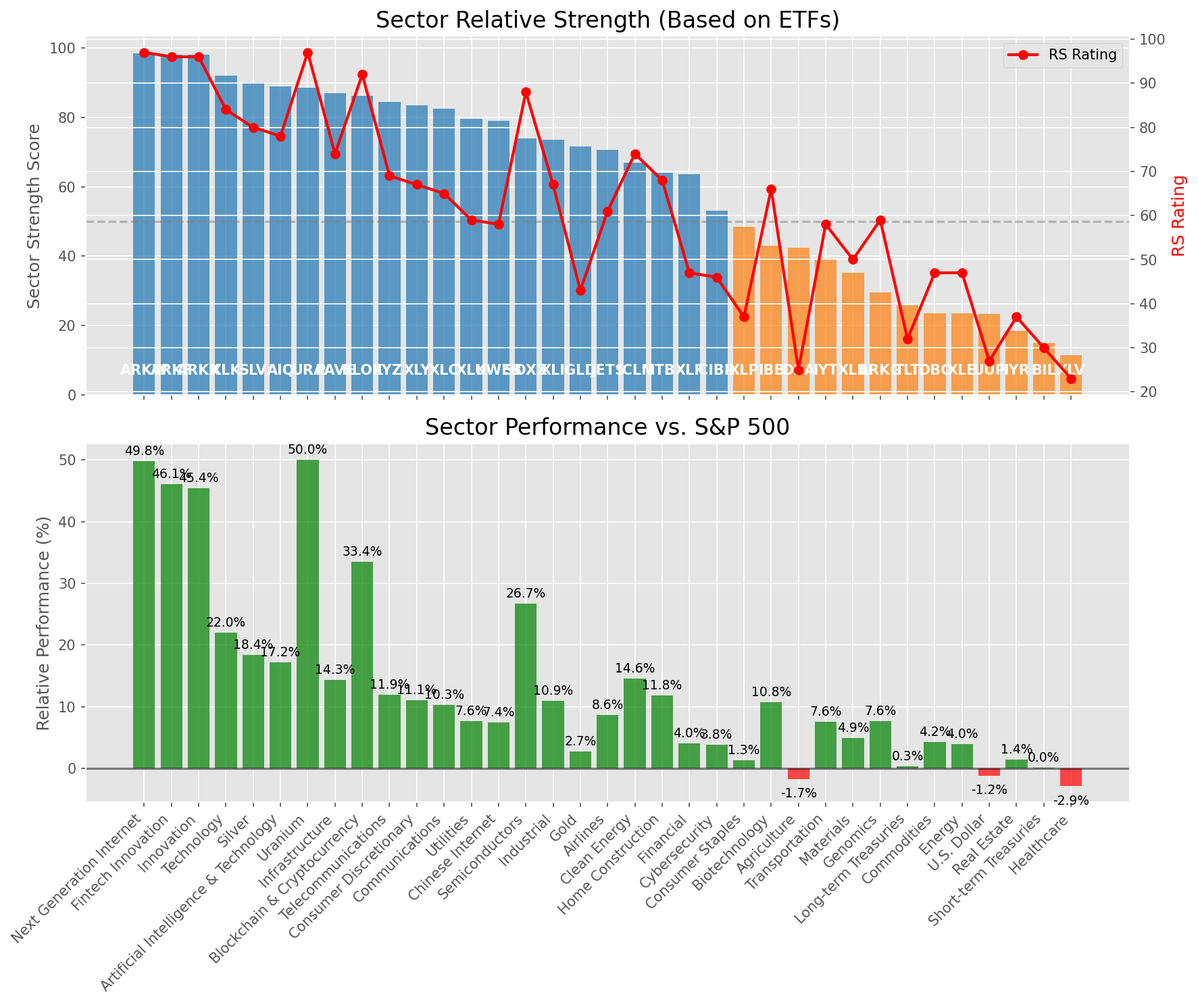
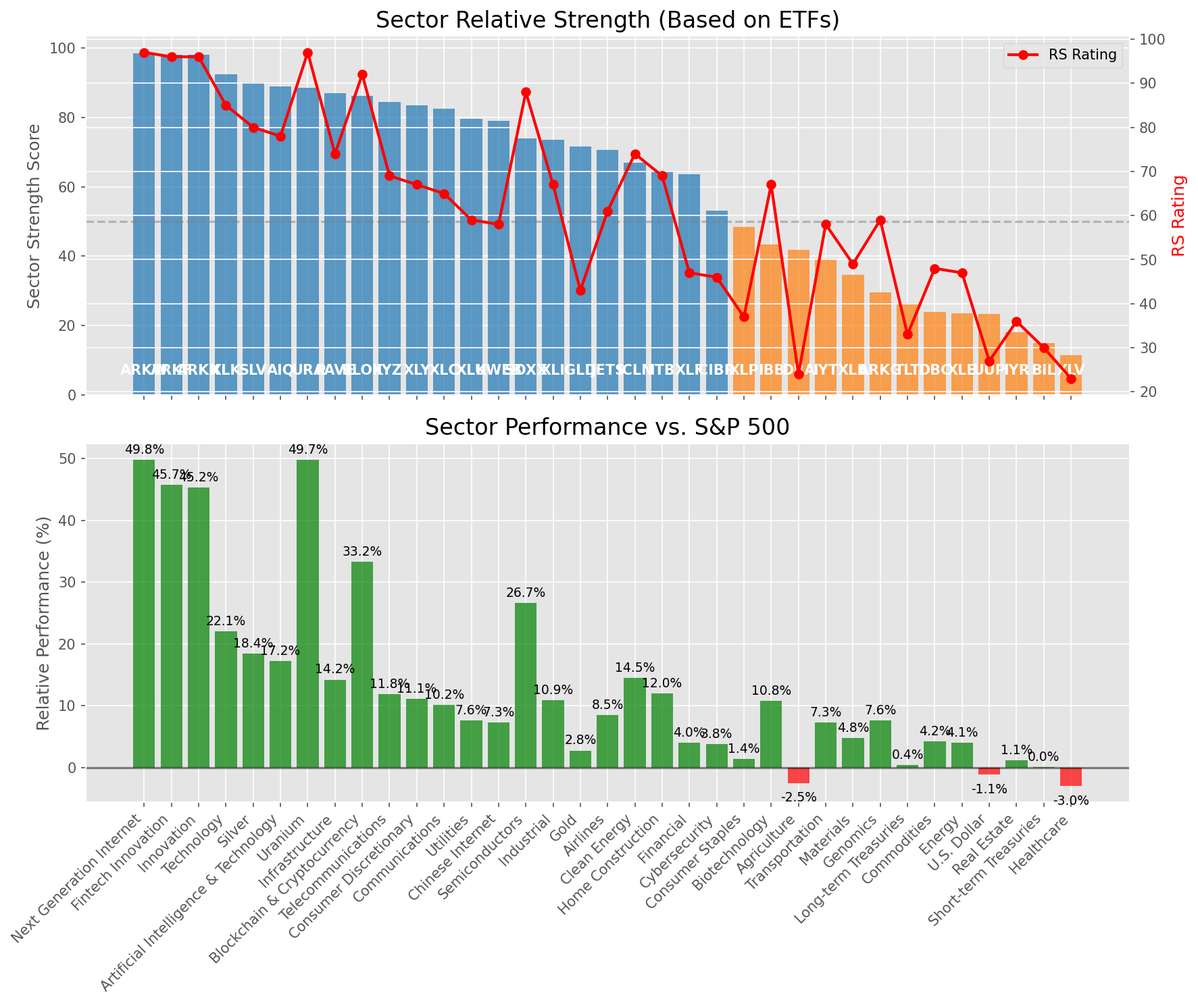
Add market report for 2025-08-08

diff --git a/oneil_relative_strength_report_2025-08-08.md b/oneil_relative_strength_report_2025-08-08.md
@@ -9,11 +9,11 @@
 | Metric | Value |
 |--------|-------|
 | **Market Valuation** | **Overvalued** |
-| **Current Ratio** | 10.33 |
+| **Current Ratio** | 10.32 |
 | **Historical Mean** | 9.66 |
 | **Standard Deviation** | 0.52 |
 | **Z-Score (StdDev from Mean)** | 1.14 |
-| **Total Market Cap** | $313.17 trillion |
+| **Total Market Cap** | $313.03 trillion |
 | **GDP** | $30.33 trillion |
 
 ## **Market Insights**
@@ -49,41 +49,41 @@ Based on William O'Neil's Relative Strength Methodology
 
 | ETF | Strength | RS Rating | Performance | Above Key MAs | Trend | Sector |
 |-----|----------|-----------|-------------|--------------|-------|--------|
-| [ARKW](https://www.tradingview.com/chart/?symbol=ARKW) | 98.5 | 97.0 | 49.83% | 10d ✓, 50d ✓, 200d ✓ | ↗ | Next Generation Internet |
-| [ARKF](https://www.tradingview.com/chart/?symbol=ARKF) | 98.0 | 96.0 | 46.05% | 10d ✓, 50d ✓, 200d ✓ | ↗ | Fintech Innovation |
-| [ARKK](https://www.tradingview.com/chart/?symbol=ARKK) | 98.0 | 96.0 | 45.41% | 10d ✓, 50d ✓, 200d ✓ | ↗ | Innovation |
-| [XLK](https://www.tradingview.com/chart/?symbol=XLK) | 92.0 | 84.0 | 22.02% | 10d ✓, 50d ✓, 200d ✓ | ↗ | Technology |
+| [ARKW](https://www.tradingview.com/chart/?symbol=ARKW) | 98.5 | 97.0 | 49.80% | 10d ✓, 50d ✓, 200d ✓ | ↗ | Next Generation Internet |
+| [ARKF](https://www.tradingview.com/chart/?symbol=ARKF) | 98.0 | 96.0 | 45.73% | 10d ✓, 50d ✓, 200d ✓ | ↗ | Fintech Innovation |
+| [ARKK](https://www.tradingview.com/chart/?symbol=ARKK) | 98.0 | 96.0 | 45.25% | 10d ✓, 50d ✓, 200d ✓ | ↗ | Innovation |
+| [XLK](https://www.tradingview.com/chart/?symbol=XLK) | 92.5 | 85.0 | 22.05% | 10d ✓, 50d ✓, 200d ✓ | ↗ | Technology |
 | [SLV](https://www.tradingview.com/chart/?symbol=SLV) | 90.0 | 80.0 | 18.40% | 10d ✓, 50d ✓, 200d ✓ | ↗ | Silver |
-| [AIQ](https://www.tradingview.com/chart/?symbol=AIQ) | 89.0 | 78.0 | 17.20% | 10d ✓, 50d ✓, 200d ✓ | ↗ | Artificial Intelligence & Technology |
-| [URA](https://www.tradingview.com/chart/?symbol=URA) | 88.6 | 97.0 | 50.04% | 10d ✗, 50d ✓, 200d ✓ | ↗ | Uranium |
-| [PAVE](https://www.tradingview.com/chart/?symbol=PAVE) | 87.0 | 74.0 | 14.32% | 10d ✓, 50d ✓, 200d ✓ | ↗ | Infrastructure |
-| [BLOK](https://www.tradingview.com/chart/?symbol=BLOK) | 86.1 | 92.0 | 33.44% | 10d ✗, 50d ✓, 200d ✓ | ↗ | Blockchain & Cryptocurrency |
-| [IYZ](https://www.tradingview.com/chart/?symbol=IYZ) | 84.5 | 69.0 | 11.90% | 10d ✓, 50d ✓, 200d ✓ | ↗ | Telecommunications |
-| [XLY](https://www.tradingview.com/chart/?symbol=XLY) | 83.5 | 67.0 | 11.08% | 10d ✓, 50d ✓, 200d ✓ | ↗ | Consumer Discretionary |
-| [XLC](https://www.tradingview.com/chart/?symbol=XLC) | 82.5 | 65.0 | 10.28% | 10d ✓, 50d ✓, 200d ✓ | ↗ | Communications |
-| [XLU](https://www.tradingview.com/chart/?symbol=XLU) | 79.5 | 59.0 | 7.65% | 10d ✓, 50d ✓, 200d ✓ | ↗ | Utilities |
-| [KWEB](https://www.tradingview.com/chart/?symbol=KWEB) | 79.0 | 58.0 | 7.40% | 10d ✓, 50d ✓, 200d ✓ | ↗ | Chinese Internet |
+| [AIQ](https://www.tradingview.com/chart/?symbol=AIQ) | 89.0 | 78.0 | 17.23% | 10d ✓, 50d ✓, 200d ✓ | ↗ | Artificial Intelligence & Technology |
+| [URA](https://www.tradingview.com/chart/?symbol=URA) | 88.6 | 97.0 | 49.74% | 10d ✗, 50d ✓, 200d ✓ | ↗ | Uranium |
+| [PAVE](https://www.tradingview.com/chart/?symbol=PAVE) | 87.0 | 74.0 | 14.23% | 10d ✓, 50d ✓, 200d ✓ | ↗ | Infrastructure |
+| [BLOK](https://www.tradingview.com/chart/?symbol=BLOK) | 86.1 | 92.0 | 33.24% | 10d ✗, 50d ✓, 200d ✓ | ↗ | Blockchain & Cryptocurrency |
+| [IYZ](https://www.tradingview.com/chart/?symbol=IYZ) | 84.5 | 69.0 | 11.84% | 10d ✓, 50d ✓, 200d ✓ | ↗ | Telecommunications |
+| [XLY](https://www.tradingview.com/chart/?symbol=XLY) | 83.5 | 67.0 | 11.09% | 10d ✓, 50d ✓, 200d ✓ | ↗ | Consumer Discretionary |
+| [XLC](https://www.tradingview.com/chart/?symbol=XLC) | 82.5 | 65.0 | 10.19% | 10d ✓, 50d ✓, 200d ✓ | ↗ | Communications |
+| [XLU](https://www.tradingview.com/chart/?symbol=XLU) | 79.5 | 59.0 | 7.59% | 10d ✓, 50d ✓, 200d ✓ | ↗ | Utilities |
+| [KWEB](https://www.tradingview.com/chart/?symbol=KWEB) | 79.0 | 58.0 | 7.34% | 10d ✓, 50d ✓, 200d ✓ | ↗ | Chinese Internet |
 | [SOXX](https://www.tradingview.com/chart/?symbol=SOXX) | 74.0 | 88.0 | 26.67% | 10d ✓, 50d ✓, 200d ✓ | ↘ | Semiconductors |
-| [XLI](https://www.tradingview.com/chart/?symbol=XLI) | 73.6 | 67.0 | 10.94% | 10d ✗, 50d ✓, 200d ✓ | ↗ | Industrial |
-| [GLD](https://www.tradingview.com/chart/?symbol=GLD) | 71.5 | 43.0 | 2.75% | 10d ✓, 50d ✓, 200d ✓ | ↗ | Gold |
-| [JETS](https://www.tradingview.com/chart/?symbol=JETS) | 70.6 | 61.0 | 8.59% | 10d ✗, 50d ✓, 200d ✓ | ↗ | Airlines |
-| [ICLN](https://www.tradingview.com/chart/?symbol=ICLN) | 67.0 | 74.0 | 14.55% | 10d ✓, 50d ✓, 200d ✓ | ↘ | Clean Energy |
-| [ITB](https://www.tradingview.com/chart/?symbol=ITB) | 64.0 | 68.0 | 11.83% | 10d ✓, 50d ✓, 200d ✓ | ↘ | Home Construction |
-| [XLF](https://www.tradingview.com/chart/?symbol=XLF) | 63.6 | 47.0 | 4.03% | 10d ✗, 50d ✓, 200d ✓ | ↗ | Financial |
-| [CIBR](https://www.tradingview.com/chart/?symbol=CIBR) | 53.2 | 46.0 | 3.83% | 10d ✗, 50d ✗, 200d ✓ | ↗ | Cybersecurity |
-| [XLP](https://www.tradingview.com/chart/?symbol=XLP) | 48.5 | 37.0 | 1.29% | 10d ✓, 50d ✓, 200d ✓ | ↘ | Consumer Staples |
-| [IBB](https://www.tradingview.com/chart/?symbol=IBB) | 42.9 | 66.0 | 10.77% | 10d ✗, 50d ✓, 200d ✗ | ↘ | Biotechnology |
-| [DBA](https://www.tradingview.com/chart/?symbol=DBA) | 42.4 | 25.0 | -1.72% | 10d ✓, 50d ✗, 200d ✗ | ↗ | Agriculture |
-| [IYT](https://www.tradingview.com/chart/?symbol=IYT) | 39.2 | 58.0 | 7.55% | 10d ✗, 50d ✗, 200d ✓ | ↘ | Transportation |
-| [XLB](https://www.tradingview.com/chart/?symbol=XLB) | 35.2 | 50.0 | 4.90% | 10d ✗, 50d ✗, 200d ✓ | ↘ | Materials |
-| [ARKG](https://www.tradingview.com/chart/?symbol=ARKG) | 29.5 | 59.0 | 7.64% | 10d ✗, 50d ✗, 200d ✗ | ↘ | Genomics |
-| [TLT](https://www.tradingview.com/chart/?symbol=TLT) | 25.9 | 32.0 | 0.34% | 10d ✗, 50d ✓, 200d ✗ | ↘ | Long-term Treasuries |
-| [DBC](https://www.tradingview.com/chart/?symbol=DBC) | 23.5 | 47.0 | 4.25% | 10d ✗, 50d ✗, 200d ✗ | ↘ | Commodities |
-| [XLE](https://www.tradingview.com/chart/?symbol=XLE) | 23.5 | 47.0 | 3.96% | 10d ✗, 50d ✗, 200d ✗ | ↘ | Energy |
-| [UUP](https://www.tradingview.com/chart/?symbol=UUP) | 23.4 | 27.0 | -1.19% | 10d ✗, 50d ✓, 200d ✗ | ↘ | U.S. Dollar |
-| [IYR](https://www.tradingview.com/chart/?symbol=IYR) | 18.5 | 37.0 | 1.41% | 10d ✗, 50d ✗, 200d ✗ | ↘ | Real Estate |
-| [BIL](https://www.tradingview.com/chart/?symbol=BIL) | 15.0 | 30.0 | 0.05% | 10d ✗, 50d ✗, 200d ✗ | ↘ | Short-term Treasuries |
-| [XLV](https://www.tradingview.com/chart/?symbol=XLV) | 11.5 | 23.0 | -2.86% | 10d ✗, 50d ✗, 200d ✗ | ↘ | Healthcare |
+| [XLI](https://www.tradingview.com/chart/?symbol=XLI) | 73.6 | 67.0 | 10.90% | 10d ✗, 50d ✓, 200d ✓ | ↗ | Industrial |
+| [GLD](https://www.tradingview.com/chart/?symbol=GLD) | 71.5 | 43.0 | 2.76% | 10d ✓, 50d ✓, 200d ✓ | ↗ | Gold |
+| [JETS](https://www.tradingview.com/chart/?symbol=JETS) | 70.6 | 61.0 | 8.52% | 10d ✗, 50d ✓, 200d ✓ | ↗ | Airlines |
+| [ICLN](https://www.tradingview.com/chart/?symbol=ICLN) | 67.0 | 74.0 | 14.46% | 10d ✓, 50d ✓, 200d ✓ | ↘ | Clean Energy |
+| [ITB](https://www.tradingview.com/chart/?symbol=ITB) | 64.5 | 69.0 | 12.01% | 10d ✓, 50d ✓, 200d ✓ | ↘ | Home Construction |
+| [XLF](https://www.tradingview.com/chart/?symbol=XLF) | 63.6 | 47.0 | 3.99% | 10d ✗, 50d ✓, 200d ✓ | ↗ | Financial |
+| [CIBR](https://www.tradingview.com/chart/?symbol=CIBR) | 53.2 | 46.0 | 3.81% | 10d ✗, 50d ✗, 200d ✓ | ↗ | Cybersecurity |
+| [XLP](https://www.tradingview.com/chart/?symbol=XLP) | 48.5 | 37.0 | 1.35% | 10d ✓, 50d ✓, 200d ✓ | ↘ | Consumer Staples |
+| [IBB](https://www.tradingview.com/chart/?symbol=IBB) | 43.4 | 67.0 | 10.79% | 10d ✗, 50d ✓, 200d ✗ | ↘ | Biotechnology |
+| [DBA](https://www.tradingview.com/chart/?symbol=DBA) | 41.9 | 24.0 | -2.49% | 10d ✓, 50d ✗, 200d ✗ | ↗ | Agriculture |
+| [IYT](https://www.tradingview.com/chart/?symbol=IYT) | 39.2 | 58.0 | 7.31% | 10d ✗, 50d ✗, 200d ✓ | ↘ | Transportation |
+| [XLB](https://www.tradingview.com/chart/?symbol=XLB) | 34.7 | 49.0 | 4.75% | 10d ✗, 50d ✗, 200d ✓ | ↘ | Materials |
+| [ARKG](https://www.tradingview.com/chart/?symbol=ARKG) | 29.5 | 59.0 | 7.59% | 10d ✗, 50d ✗, 200d ✗ | ↘ | Genomics |
+| [TLT](https://www.tradingview.com/chart/?symbol=TLT) | 26.4 | 33.0 | 0.43% | 10d ✗, 50d ✓, 200d ✗ | ↘ | Long-term Treasuries |
+| [DBC](https://www.tradingview.com/chart/?symbol=DBC) | 24.0 | 48.0 | 4.20% | 10d ✗, 50d ✗, 200d ✗ | ↘ | Commodities |
+| [XLE](https://www.tradingview.com/chart/?symbol=XLE) | 23.5 | 47.0 | 4.07% | 10d ✗, 50d ✗, 200d ✗ | ↘ | Energy |
+| [UUP](https://www.tradingview.com/chart/?symbol=UUP) | 23.4 | 27.0 | -1.12% | 10d ✗, 50d ✓, 200d ✗ | ↘ | U.S. Dollar |
+| [IYR](https://www.tradingview.com/chart/?symbol=IYR) | 18.0 | 36.0 | 1.13% | 10d ✗, 50d ✗, 200d ✗ | ↘ | Real Estate |
+| [BIL](https://www.tradingview.com/chart/?symbol=BIL) | 15.0 | 30.0 | 0.04% | 10d ✗, 50d ✗, 200d ✗ | ↘ | Short-term Treasuries |
+| [XLV](https://www.tradingview.com/chart/?symbol=XLV) | 11.5 | 23.0 | -2.97% | 10d ✗, 50d ✗, 200d ✗ | ↘ | Healthcare |
 
 ### **Sector ETF Performance Interpretation**
 
@@ -100,158 +100,147 @@ This table shows the relative strength metrics for different market sectors base
 
 The current market leadership is coming from the following sectors: **Next Generation Internet, Fintech Innovation, Innovation**.
 
-The **Next Generation Internet** sector (represented by **ARKW**) is showing particularly strong relative strength with an RS rating of 97.0 and performance of 49.83% vs. the S&P 500. This sector is trading above its 10-day, 50-day, 200-day moving average(s). Investors should consider focusing on high RS stocks within these leading sectors for potential outperformance.
+The **Next Generation Internet** sector (represented by **ARKW**) is showing particularly strong relative strength with an RS rating of 97.0 and performance of 49.80% vs. the S&P 500. This sector is trading above its 10-day, 50-day, 200-day moving average(s). Investors should consider focusing on high RS stocks within these leading sectors for potential outperformance.
 
 ---
 
 ## **Buy Recommendations**
 
-The following 74 stocks show exceptional relative strength:
+The following 69 stocks show exceptional relative strength:
 
 | RS Rating | Buy Score | Current Price | Chart | Name | Ticker |
 |-----------|-----------|---------------|-------|------|--------|
-| 100 | 100 | $115.17 | [Chart](https://www.tradingview.com/chart/?symbol=HOOD) | Robinhood Markets, Inc. Class A Common Stock | HOOD |
-| 100 | 100 | $73.76 | [Chart](https://www.tradingview.com/chart/?symbol=MP) | MP Materials Corp. | MP |
-| 100 | 100 | $225.52 | [Chart](https://www.tradingview.com/chart/?symbol=LEU) | Centrus Energy Corp. | LEU |
-| 100 | 100 | $208.51 | [Chart](https://www.tradingview.com/chart/?symbol=CLS) | Celestica, Inc. | CLS |
-| 100 | 100 | $120.88 | [Chart](https://www.tradingview.com/chart/?symbol=CRDO) | Credo Technology Group Holding Ltd Ordinary Shares | CRDO |
-| 99 | 100 | $64.86 | [Chart](https://www.tradingview.com/chart/?symbol=KTOS) | Kratos Defense & Security Solutions, Inc. | KTOS |
-| 99 | 100 | $128.88 | [Chart](https://www.tradingview.com/chart/?symbol=RBLX) | Roblox Corporation | RBLX |
-| 98 | 100 | $105.33 | [Chart](https://www.tradingview.com/chart/?symbol=VRNA) | Verona Pharma plc | VRNA |
-| 98 | 100 | $187.15 | [Chart](https://www.tradingview.com/chart/?symbol=PLTR) | Palantir Technologies Inc. Class A Common Stock | PLTR |
-| 97 | 100 | $161.21 | [Chart](https://www.tradingview.com/chart/?symbol=FUTU) | Futu Holdings Limited American Depositary Shares | FUTU |
-| 97 | 100 | $178.19 | [Chart](https://www.tradingview.com/chart/?symbol=COOP) | Mr. Cooper Group Inc. Common Stock | COOP |
-| 97 | 100 | $91.77 | [Chart](https://www.tradingview.com/chart/?symbol=RYTM) | Rhythm Pharmaceuticals, Inc. Common Stock | RYTM |
-| 97 | 100 | $121.95 | [Chart](https://www.tradingview.com/chart/?symbol=SANM) | Sanmina  Corp | SANM |
-| 97 | 100 | $158.80 | [Chart](https://www.tradingview.com/chart/?symbol=ARKW) | ARK Next Generation Internet ETF | ARKW |
-| 96 | 100 | $94.01 | [Chart](https://www.tradingview.com/chart/?symbol=GDXU) | MicroSectors Gold Miners 3x Leveraged ETN | GDXU |
-| 96 | 100 | $23.16 | [Chart](https://www.tradingview.com/chart/?symbol=MAG) | MAG Silver Corp. | MAG |
-| 96 | 100 | $225.99 | [Chart](https://www.tradingview.com/chart/?symbol=JBL) | Jabil Inc. | JBL |
-| 96 | 100 | $54.36 | [Chart](https://www.tradingview.com/chart/?symbol=ARKF) | ARK Fintech Innovation ETF | ARKF |
+| 100 | 100 | $120.41 | [Chart](https://www.tradingview.com/chart/?symbol=CRDO) | Credo Technology Group Holding Ltd Ordinary Shares | CRDO |
+| 100 | 100 | $74.32 | [Chart](https://www.tradingview.com/chart/?symbol=MP) | MP Materials Corp. | MP |
+| 100 | 100 | $114.63 | [Chart](https://www.tradingview.com/chart/?symbol=HOOD) | Robinhood Markets, Inc. Class A Common Stock | HOOD |
+| 100 | 100 | $223.15 | [Chart](https://www.tradingview.com/chart/?symbol=LEU) | Centrus Energy Corp. | LEU |
+| 100 | 100 | $207.66 | [Chart](https://www.tradingview.com/chart/?symbol=CLS) | Celestica, Inc. | CLS |
+| 99 | 100 | $63.88 | [Chart](https://www.tradingview.com/chart/?symbol=KTOS) | Kratos Defense & Security Solutions, Inc. | KTOS |
+| 99 | 100 | $128.71 | [Chart](https://www.tradingview.com/chart/?symbol=RBLX) | Roblox Corporation | RBLX |
+| 98 | 100 | $186.96 | [Chart](https://www.tradingview.com/chart/?symbol=PLTR) | Palantir Technologies Inc. Class A Common Stock | PLTR |
+| 98 | 100 | $105.28 | [Chart](https://www.tradingview.com/chart/?symbol=VRNA) | Verona Pharma plc | VRNA |
+| 97 | 100 | $158.77 | [Chart](https://www.tradingview.com/chart/?symbol=ARKW) | ARK Next Generation Internet ETF | ARKW |
+| 97 | 100 | $91.98 | [Chart](https://www.tradingview.com/chart/?symbol=RYTM) | Rhythm Pharmaceuticals, Inc. Common Stock | RYTM |
+| 97 | 100 | $177.35 | [Chart](https://www.tradingview.com/chart/?symbol=COOP) | Mr. Cooper Group Inc. Common Stock | COOP |
+| 97 | 100 | $160.92 | [Chart](https://www.tradingview.com/chart/?symbol=FUTU) | Futu Holdings Limited American Depositary Shares | FUTU |
+| 97 | 100 | $121.25 | [Chart](https://www.tradingview.com/chart/?symbol=SANM) | Sanmina  Corp | SANM |
+| 96 | 100 | $23.15 | [Chart](https://www.tradingview.com/chart/?symbol=MAG) | MAG Silver Corp. | MAG |
+| 96 | 100 | $24.60 | [Chart](https://www.tradingview.com/chart/?symbol=ACAD) | Acadia Pharmaceuticals Inc. | ACAD |
+| 96 | 100 | $224.34 | [Chart](https://www.tradingview.com/chart/?symbol=JBL) | Jabil Inc. | JBL |
+| 96 | 100 | $54.24 | [Chart](https://www.tradingview.com/chart/?symbol=ARKF) | ARK Fintech Innovation ETF | ARKF |
+| 95 | 100 | $92.88 | [Chart](https://www.tradingview.com/chart/?symbol=GDXU) | MicroSectors Gold Miners 3x Leveraged ETN | GDXU |
+| 95 | 100 | $259.19 | [Chart](https://www.tradingview.com/chart/?symbol=DASH) | DoorDash, Inc. Class A Common Stock | DASH |
 | 95 | 100 | $65.91 | [Chart](https://www.tradingview.com/chart/?symbol=IBKR) | Interactive Brokers Group, Inc. Class A Common Stock | IBKR |
-| 95 | 100 | $50.47 | [Chart](https://www.tradingview.com/chart/?symbol=REVG) | REV Group, Inc. | REVG |
-| 95 | 100 | $109.43 | [Chart](https://www.tradingview.com/chart/?symbol=TPR) | Tapestry, Inc. Common Stock | TPR |
-| 95 | 100 | $259.25 | [Chart](https://www.tradingview.com/chart/?symbol=DASH) | DoorDash, Inc. Class A Common Stock | DASH |
-| 94 | 100 | $238.52 | [Chart](https://www.tradingview.com/chart/?symbol=AGX) | Argan, Inc | AGX |
-| 94 | 100 | $33.65 | [Chart](https://www.tradingview.com/chart/?symbol=GRPN) | Groupon, Inc.Common Stock | GRPN |
-| 93 | 100 | $36.25 | [Chart](https://www.tradingview.com/chart/?symbol=DB) | Deutsche Bank Aktiengesellschaft | DB |
-| 93 | 100 | $57.48 | [Chart](https://www.tradingview.com/chart/?symbol=AU) | AngloGold Ashanti plc | AU |
-| 93 | 100 | $110.28 | [Chart](https://www.tradingview.com/chart/?symbol=APH) | Amphenol Corporation | APH |
-| 92 | 100 | $456.95 | [Chart](https://www.tradingview.com/chart/?symbol=APP) | Applovin Corporation Class A Common Stock | APP |
-| 92 | 100 | $56.84 | [Chart](https://www.tradingview.com/chart/?symbol=CALX) | CALIX, INC. | CALX |
-| 92 | 100 | $47.05 | [Chart](https://www.tradingview.com/chart/?symbol=BBIO) | BridgeBio Pharma, Inc. Common Stock | BBIO |
-| 92 | 100 | $54.63 | [Chart](https://www.tradingview.com/chart/?symbol=SIL) | Global X Silver Miners ETF (NEW) | SIL |
-| 91 | 100 | $57.13 | [Chart](https://www.tradingview.com/chart/?symbol=BTI) | British American Tobacco p.l.c. American Depositary Shares, American Depositary Shares, each representing one Ordinary Share | BTI |
-| 91 | 100 | $93.09 | [Chart](https://www.tradingview.com/chart/?symbol=EBAY) | eBay Inc | EBAY |
-| 91 | 100 | $20.14 | [Chart](https://www.tradingview.com/chart/?symbol=LQDA) | Liquidia Corporation Common Stock | LQDA |
-| 90 | 100 | $53.88 | [Chart](https://www.tradingview.com/chart/?symbol=GH) | Guardant Health, Inc. Common Stock | GH |
-| 90 | 100 | $30.71 | [Chart](https://www.tradingview.com/chart/?symbol=OR) | OR Royalties Inc. | OR |
-| 90 | 100 | $43.70 | [Chart](https://www.tradingview.com/chart/?symbol=LTM) | LATAM Airlines Group S.A. American Depositary Shares (each representing two thousand (2,000) shares of Common Stock) | LTM |
-| 89 | 100 | $27.99 | [Chart](https://www.tradingview.com/chart/?symbol=KAR) | OPENLANE, Inc | KAR |
-| 89 | 100 | $96.41 | [Chart](https://www.tradingview.com/chart/?symbol=TPB) | Turning Point Brands, Inc. | TPB |
-| 89 | 100 | $274.89 | [Chart](https://www.tradingview.com/chart/?symbol=GE) | GE Aerospace | GE |
-| 88 | 100 | $40.60 | [Chart](https://www.tradingview.com/chart/?symbol=AHR) | American Healthcare REIT, Inc. | AHR |
-| 87 | 100 | $265.98 | [Chart](https://www.tradingview.com/chart/?symbol=IDCC) | InterDigital, Inc. | IDCC |
-| 89 | 99 | $724.35 | [Chart](https://www.tradingview.com/chart/?symbol=GS) | Goldman Sachs Group Inc. | GS |
-| 86 | 99 | $101.86 | [Chart](https://www.tradingview.com/chart/?symbol=WPM) | Wheaton Precious Metals Corp. Common Stock | WPM |
-| 87 | 98 | $35.52 | [Chart](https://www.tradingview.com/chart/?symbol=ATAT) | Atour Lifestyle Holdings Limited American Depositary Shares | ATAT |
-| 87 | 98 | $31.92 | [Chart](https://www.tradingview.com/chart/?symbol=PAAS) | Pan American Silver Corp. | PAAS |
-| 86 | 98 | $43.78 | [Chart](https://www.tradingview.com/chart/?symbol=FROG) | JFrog Ltd. Ordinary Shares | FROG |
-| 84 | 98 | $19.96 | [Chart](https://www.tradingview.com/chart/?symbol=BCS) | Barclays PLC | BCS |
+| 94 | 100 | $50.01 | [Chart](https://www.tradingview.com/chart/?symbol=REVG) | REV Group, Inc. | REVG |
+| 94 | 100 | $57.42 | [Chart](https://www.tradingview.com/chart/?symbol=AU) | AngloGold Ashanti plc | AU |
+| 94 | 100 | $239.02 | [Chart](https://www.tradingview.com/chart/?symbol=AGX) | Argan, Inc | AGX |
+| 93 | 100 | $36.26 | [Chart](https://www.tradingview.com/chart/?symbol=DB) | Deutsche Bank Aktiengesellschaft | DB |
+| 93 | 100 | $109.98 | [Chart](https://www.tradingview.com/chart/?symbol=APH) | Amphenol Corporation | APH |
+| 92 | 100 | $455.98 | [Chart](https://www.tradingview.com/chart/?symbol=APP) | Applovin Corporation Class A Common Stock | APP |
+| 92 | 100 | $54.43 | [Chart](https://www.tradingview.com/chart/?symbol=SIL) | Global X Silver Miners ETF (NEW) | SIL |
+| 92 | 100 | $20.45 | [Chart](https://www.tradingview.com/chart/?symbol=LQDA) | Liquidia Corporation Common Stock | LQDA |
+| 91 | 100 | $57.24 | [Chart](https://www.tradingview.com/chart/?symbol=BTI) | British American Tobacco p.l.c. American Depositary Shares, American Depositary Shares, each representing one Ordinary Share | BTI |
+| 91 | 100 | $93.14 | [Chart](https://www.tradingview.com/chart/?symbol=EBAY) | eBay Inc | EBAY |
+| 90 | 100 | $54.23 | [Chart](https://www.tradingview.com/chart/?symbol=GH) | Guardant Health, Inc. Common Stock | GH |
+| 90 | 100 | $27.98 | [Chart](https://www.tradingview.com/chart/?symbol=KAR) | OPENLANE, Inc | KAR |
+| 90 | 100 | $43.67 | [Chart](https://www.tradingview.com/chart/?symbol=LTM) | LATAM Airlines Group S.A. American Depositary Shares (each representing two thousand (2,000) shares of Common Stock) | LTM |
+| 89 | 100 | $30.41 | [Chart](https://www.tradingview.com/chart/?symbol=OR) | OR Royalties Inc. | OR |
+| 89 | 100 | $275.01 | [Chart](https://www.tradingview.com/chart/?symbol=GE) | GE Aerospace | GE |
+| 89 | 100 | $96.76 | [Chart](https://www.tradingview.com/chart/?symbol=TPB) | Turning Point Brands, Inc. | TPB |
+| 88 | 100 | $40.51 | [Chart](https://www.tradingview.com/chart/?symbol=AHR) | American Healthcare REIT, Inc. | AHR |
+| 87 | 100 | $264.21 | [Chart](https://www.tradingview.com/chart/?symbol=IDCC) | InterDigital, Inc. | IDCC |
+| 87 | 98 | $31.95 | [Chart](https://www.tradingview.com/chart/?symbol=PAAS) | Pan American Silver Corp. | PAAS |
+| 87 | 98 | $35.37 | [Chart](https://www.tradingview.com/chart/?symbol=ATAT) | Atour Lifestyle Holdings Limited American Depositary Shares | ATAT |
+| 86 | 98 | $43.62 | [Chart](https://www.tradingview.com/chart/?symbol=FROG) | JFrog Ltd. Ordinary Shares | FROG |
+| 85 | 98 | $100.69 | [Chart](https://www.tradingview.com/chart/?symbol=WPM) | Wheaton Precious Metals Corp. Common Stock | WPM |
+| 84 | 98 | $19.94 | [Chart](https://www.tradingview.com/chart/?symbol=BCS) | Barclays PLC | BCS |
+| 87 | 97 | $188.28 | [Chart](https://www.tradingview.com/chart/?symbol=AWI) | Armstrong World Industries, Inc. | AWI |
 | 87 | 97 | $18.33 | [Chart](https://www.tradingview.com/chart/?symbol=BVN) | Compania de Minas Buenaventura S.A. | BVN |
-| 85 | 97 | $846.57 | [Chart](https://www.tradingview.com/chart/?symbol=AXON) | Axon Enterprise, Inc. Common Stock | AXON |
-| 86 | 96 | $188.53 | [Chart](https://www.tradingview.com/chart/?symbol=AWI) | Armstrong World Industries, Inc. | AWI |
-| 86 | 96 | $65.65 | [Chart](https://www.tradingview.com/chart/?symbol=MAIN) | Main Street Capital Corporation | MAIN |
-| 86 | 96 | $262.40 | [Chart](https://www.tradingview.com/chart/?symbol=WTS) | Watts Water Technologies, Inc. Class A | WTS |
-| 85 | 96 | $26.45 | [Chart](https://www.tradingview.com/chart/?symbol=TFPM) | Triple Flag Precious Metals Corp. | TFPM |
-| 85 | 96 | $116.48 | [Chart](https://www.tradingview.com/chart/?symbol=SXT) | Sensient Technology Corporation | SXT |
-| 83 | 96 | $119.11 | [Chart](https://www.tradingview.com/chart/?symbol=GILD) | Gilead Sciences Inc | GILD |
-| 85 | 95 | $97.14 | [Chart](https://www.tradingview.com/chart/?symbol=NDAQ) | Nasdaq, Inc. Common Stock | NDAQ |
-| 84 | 95 | $248.48 | [Chart](https://www.tradingview.com/chart/?symbol=BAP) | Credicorp LTD | BAP |
-| 83 | 95 | $103.66 | [Chart](https://www.tradingview.com/chart/?symbol=BK) | Bank of New York Mellon Corporation | BK |
-| 83 | 95 | $154.29 | [Chart](https://www.tradingview.com/chart/?symbol=VSEC) | VSE Corp | VSEC |
-| 82 | 94 | $71.62 | [Chart](https://www.tradingview.com/chart/?symbol=CSCO) | Cisco Systems, Inc. Common Stock (DE) | CSCO |
-| 83 | 93 | $24.42 | [Chart](https://www.tradingview.com/chart/?symbol=ING) | ING Groep N.V. American Depositary Shares | ING |
-| 83 | 93 | $48.06 | [Chart](https://www.tradingview.com/chart/?symbol=FAST) | Fastenal Co | FAST |
-| 82 | 93 | $229.78 | [Chart](https://www.tradingview.com/chart/?symbol=BA) | Boeing Company | BA |
-| 81 | 93 | $58.35 | [Chart](https://www.tradingview.com/chart/?symbol=GDX) | VanEck Gold Miners ETF | GDX |
-| 80 | 93 | $136.38 | [Chart](https://www.tradingview.com/chart/?symbol=AEM) | Agnico Eagle Mines Ltd. | AEM |
+| 86 | 97 | $26.46 | [Chart](https://www.tradingview.com/chart/?symbol=TFPM) | Triple Flag Precious Metals Corp. | TFPM |
+| 85 | 97 | $842.50 | [Chart](https://www.tradingview.com/chart/?symbol=AXON) | Axon Enterprise, Inc. Common Stock | AXON |
+| 84 | 97 | $119.41 | [Chart](https://www.tradingview.com/chart/?symbol=GILD) | Gilead Sciences Inc | GILD |
+| 86 | 96 | $262.24 | [Chart](https://www.tradingview.com/chart/?symbol=WTS) | Watts Water Technologies, Inc. Class A | WTS |
+| 86 | 96 | $65.63 | [Chart](https://www.tradingview.com/chart/?symbol=MAIN) | Main Street Capital Corporation | MAIN |
+| 85 | 96 | $249.20 | [Chart](https://www.tradingview.com/chart/?symbol=BAP) | Credicorp LTD | BAP |
+| 85 | 96 | $116.62 | [Chart](https://www.tradingview.com/chart/?symbol=SXT) | Sensient Technology Corporation | SXT |
+| 85 | 95 | $96.85 | [Chart](https://www.tradingview.com/chart/?symbol=NDAQ) | Nasdaq, Inc. Common Stock | NDAQ |
+| 83 | 95 | $103.09 | [Chart](https://www.tradingview.com/chart/?symbol=BK) | Bank of New York Mellon Corporation | BK |
+| 83 | 95 | $153.50 | [Chart](https://www.tradingview.com/chart/?symbol=VSEC) | VSE Corp | VSEC |
+| 82 | 94 | $71.79 | [Chart](https://www.tradingview.com/chart/?symbol=CSCO) | Cisco Systems, Inc. Common Stock (DE) | CSCO |
+| 83 | 93 | $24.44 | [Chart](https://www.tradingview.com/chart/?symbol=ING) | ING Groep N.V. American Depositary Shares | ING |
+| 83 | 93 | $47.99 | [Chart](https://www.tradingview.com/chart/?symbol=FAST) | Fastenal Co | FAST |
+| 80 | 93 | $135.61 | [Chart](https://www.tradingview.com/chart/?symbol=AEM) | Agnico Eagle Mines Ltd. | AEM |
+| 82 | 92 | $13.00 | [Chart](https://www.tradingview.com/chart/?symbol=PSLV) | Sprott Physical Silver Trust | PSLV |
 | 82 | 92 | $51.25 | [Chart](https://www.tradingview.com/chart/?symbol=FHI) | Federated Hermes, Inc. | FHI |
-| 81 | 92 | $307.33 | [Chart](https://www.tradingview.com/chart/?symbol=PODD) | Insulet Corporation | PODD |
-| 81 | 91 | $190.39 | [Chart](https://www.tradingview.com/chart/?symbol=ASND) | Ascendis Pharma A/S American Depositary Shares | ASND |
-| 81 | 91 | $13.02 | [Chart](https://www.tradingview.com/chart/?symbol=PSLV) | Sprott Physical Silver Trust | PSLV |
-| 81 | 91 | $32.10 | [Chart](https://www.tradingview.com/chart/?symbol=IIIV) | i3 Verticals, Inc. Class A Common Stock | IIIV |
-| 80 | 91 | $36.59 | [Chart](https://www.tradingview.com/chart/?symbol=SIVR) | abrdn Physical Silver Shares ETF | SIVR |
-| 80 | 91 | $117.19 | [Chart](https://www.tradingview.com/chart/?symbol=SPMO) | Invesco S&P 500 Momentum ETF | SPMO |
-| 80 | 91 | $25.94 | [Chart](https://www.tradingview.com/chart/?symbol=PUK) | PRUDENTIAL PLC ADS (REP 2 ORD SHARES) | PUK |
+| 82 | 92 | $191.49 | [Chart](https://www.tradingview.com/chart/?symbol=ASND) | Ascendis Pharma A/S American Depositary Shares | ASND |
+| 81 | 92 | $117.19 | [Chart](https://www.tradingview.com/chart/?symbol=SPMO) | Invesco S&P 500 Momentum ETF | SPMO |
+| 81 | 92 | $229.12 | [Chart](https://www.tradingview.com/chart/?symbol=BA) | Boeing Company | BA |
+| 81 | 92 | $307.10 | [Chart](https://www.tradingview.com/chart/?symbol=PODD) | Insulet Corporation | PODD |
+| 80 | 92 | $58.06 | [Chart](https://www.tradingview.com/chart/?symbol=GDX) | VanEck Gold Miners ETF | GDX |
+| 80 | 91 | $36.58 | [Chart](https://www.tradingview.com/chart/?symbol=SIVR) | abrdn Physical Silver Shares ETF | SIVR |
+| 80 | 91 | $25.91 | [Chart](https://www.tradingview.com/chart/?symbol=PUK) | PRUDENTIAL PLC ADS (REP 2 ORD SHARES) | PUK |
 
 ---
 
 
 ## **Sell Recommendations**
 
-The following 58 stocks show deteriorating relative strength:
+The following 52 stocks show deteriorating relative strength:
 
 | RS Rating | Sell Score | Current Price | Chart | Name | Ticker |
 |-----------|------------|---------------|-------|------|--------|
-| 1 | 100 | $11.55 | [Chart](https://www.tradingview.com/chart/?symbol=NVDS) | Investment Managers Series Trust II Tradr 1.5X Short NVDA Daily ETF | NVDS |
-| 1 | 100 | $23.24 | [Chart](https://www.tradingview.com/chart/?symbol=TECS) | Direxion Daily Technology Bear 3x Shares | TECS |
-| 2 | 100 | $13.61 | [Chart](https://www.tradingview.com/chart/?symbol=CLBT) | Cellebrite DI Ltd. Class A Ordinary Shares | CLBT |
-| 3 | 100 | $22.60 | [Chart](https://www.tradingview.com/chart/?symbol=ZSL) | ProShares UltraShort Silver | ZSL |
-| 6 | 100 | $41.51 | [Chart](https://www.tradingview.com/chart/?symbol=SDOW) | ProShares UltraPro Short Dow 30 | SDOW |
-| 6 | 100 | $21.86 | [Chart](https://www.tradingview.com/chart/?symbol=HELE) | Helen Of Troy Ltd | HELE |
-| 7 | 100 | $23.62 | [Chart](https://www.tradingview.com/chart/?symbol=CRTO) | Criteo S.A. | CRTO |
-| 8 | 100 | $36.31 | [Chart](https://www.tradingview.com/chart/?symbol=LZB) | La-Z-Boy Incorporated | LZB |
-| 8 | 100 | $40.56 | [Chart](https://www.tradingview.com/chart/?symbol=BILL) | BILL Holdings, Inc. | BILL |
-| 10 | 100 | $24.30 | [Chart](https://www.tradingview.com/chart/?symbol=DXD) | ProShares UltraShort Dow 30 | DXD |
+| 1 | 100 | $11.54 | [Chart](https://www.tradingview.com/chart/?symbol=NVDS) | Investment Managers Series Trust II Tradr 1.5X Short NVDA Daily ETF | NVDS |
+| 3 | 100 | $22.63 | [Chart](https://www.tradingview.com/chart/?symbol=ZSL) | ProShares UltraShort Silver | ZSL |
+| 6 | 100 | $41.57 | [Chart](https://www.tradingview.com/chart/?symbol=SDOW) | ProShares UltraPro Short Dow 30 | SDOW |
+| 6 | 100 | $21.81 | [Chart](https://www.tradingview.com/chart/?symbol=HELE) | Helen Of Troy Ltd | HELE |
+| 8 | 100 | $40.74 | [Chart](https://www.tradingview.com/chart/?symbol=BILL) | BILL Holdings, Inc. | BILL |
+| 8 | 100 | $36.19 | [Chart](https://www.tradingview.com/chart/?symbol=LZB) | La-Z-Boy Incorporated | LZB |
 | 11 | 100 | $38.79 | [Chart](https://www.tradingview.com/chart/?symbol=SH) | ProShares Short S&P500 | SH |
-| 12 | 100 | $25.57 | [Chart](https://www.tradingview.com/chart/?symbol=TBBB) | BBB Foods Inc. | TBBB |
-| 15 | 100 | $31.44 | [Chart](https://www.tradingview.com/chart/?symbol=JD) | JD.com, Inc. | JD |
-| 16 | 100 | $16.40 | [Chart](https://www.tradingview.com/chart/?symbol=CTO) | CTO Realty Growth, Inc. | CTO |
-| 2 | 99 | $17.15 | [Chart](https://www.tradingview.com/chart/?symbol=DJT) | Trump Media & Technology Group Corp. Common Stock | DJT |
-| 8 | 98 | $221.52 | [Chart](https://www.tradingview.com/chart/?symbol=WDAY) | Workday, Inc. Class A Common Stock | WDAY |
-| 9 | 97 | $19.91 | [Chart](https://www.tradingview.com/chart/?symbol=GAP) | The Gap, Inc. | GAP |
-| 10 | 97 | $12.79 | [Chart](https://www.tradingview.com/chart/?symbol=EWTX) | Edgewise Therapeutics, Inc. Common Stock | EWTX |
-| 12 | 95 | $14.00 | [Chart](https://www.tradingview.com/chart/?symbol=VRE) | Veris Residential, Inc. | VRE |
-| 7 | 93 | $29.65 | [Chart](https://www.tradingview.com/chart/?symbol=SMPL) | The Simply Good Foods Company Common Stock | SMPL |
-| 11 | 93 | $14.72 | [Chart](https://www.tradingview.com/chart/?symbol=PLSE) | Pulse Biosciences, Inc Common Stock (DE) | PLSE |
-| 14 | 93 | $12.57 | [Chart](https://www.tradingview.com/chart/?symbol=CCRN) | Cross Country Healthcare Inc | CCRN |
-| 19 | 93 | $22.24 | [Chart](https://www.tradingview.com/chart/?symbol=CURB) | Curbline Properties Corp. | CURB |
-| 20 | 93 | $16.43 | [Chart](https://www.tradingview.com/chart/?symbol=UMH) | UMH Properties, Inc. | UMH |
-| 12 | 92 | $34.49 | [Chart](https://www.tradingview.com/chart/?symbol=AMH) | AMERICAN HOMES 4 RENT | AMH |
-| 10 | 91 | $140.67 | [Chart](https://www.tradingview.com/chart/?symbol=MAA) | Mid-America Apartment Communities, Inc. | MAA |
-| 17 | 91 | $25.82 | [Chart](https://www.tradingview.com/chart/?symbol=FCPT) | Four Corners Property Trust, Inc. | FCPT |
-| 17 | 91 | $18.54 | [Chart](https://www.tradingview.com/chart/?symbol=AVBP) | ArriVent BioPharma, Inc. Common Stock | AVBP |
-| 12 | 90 | $776.16 | [Chart](https://www.tradingview.com/chart/?symbol=EQIX) | Equinix, Inc. Common Stock REIT | EQIX |
-| 12 | 90 | $28.56 | [Chart](https://www.tradingview.com/chart/?symbol=BBWI) | Bath & Body Works, Inc. | BBWI |
-| 19 | 90 | $13.06 | [Chart](https://www.tradingview.com/chart/?symbol=GOOD) | Gladstone Commercial Corporation - REIT | GOOD |
-| 12 | 89 | $22.68 | [Chart](https://www.tradingview.com/chart/?symbol=CLW) | Clearwater Paper Corporation | CLW |
-| 19 | 89 | $55.23 | [Chart](https://www.tradingview.com/chart/?symbol=HRB) | H&R Block, Inc. | HRB |
-| 14 | 88 | $48.05 | [Chart](https://www.tradingview.com/chart/?symbol=BIRK) | Birkenstock Holding plc | BIRK |
-| 21 | 88 | $37.20 | [Chart](https://www.tradingview.com/chart/?symbol=VNO) | Vornado Realty Trust | VNO |
-| 24 | 85 | $48.14 | [Chart](https://www.tradingview.com/chart/?symbol=FR) | First Industrial Realty Trust, Inc. | FR |
+| 15 | 100 | $31.49 | [Chart](https://www.tradingview.com/chart/?symbol=JD) | JD.com, Inc. | JD |
+| 16 | 100 | $16.34 | [Chart](https://www.tradingview.com/chart/?symbol=CTO) | CTO Realty Growth, Inc. | CTO |
+| 2 | 99 | $13.57 | [Chart](https://www.tradingview.com/chart/?symbol=CLBT) | Cellebrite DI Ltd. Class A Ordinary Shares | CLBT |
+| 11 | 99 | $24.33 | [Chart](https://www.tradingview.com/chart/?symbol=DXD) | ProShares UltraShort Dow 30 | DXD |
+| 2 | 98 | $16.99 | [Chart](https://www.tradingview.com/chart/?symbol=DJT) | Trump Media & Technology Group Corp. Common Stock | DJT |
+| 13 | 98 | $25.81 | [Chart](https://www.tradingview.com/chart/?symbol=TBBB) | BBB Foods Inc. | TBBB |
+| 9 | 97 | $222.07 | [Chart](https://www.tradingview.com/chart/?symbol=WDAY) | Workday, Inc. Class A Common Stock | WDAY |
+| 9 | 97 | $12.68 | [Chart](https://www.tradingview.com/chart/?symbol=EWTX) | Edgewise Therapeutics, Inc. Common Stock | EWTX |
+| 14 | 97 | $17.99 | [Chart](https://www.tradingview.com/chart/?symbol=AVBP) | ArriVent BioPharma, Inc. Common Stock | AVBP |
+| 9 | 96 | $19.80 | [Chart](https://www.tradingview.com/chart/?symbol=GAP) | The Gap, Inc. | GAP |
+| 11 | 94 | $14.71 | [Chart](https://www.tradingview.com/chart/?symbol=PLSE) | Pulse Biosciences, Inc Common Stock (DE) | PLSE |
+| 18 | 93 | $22.07 | [Chart](https://www.tradingview.com/chart/?symbol=CURB) | Curbline Properties Corp. | CURB |
+| 20 | 92 | $16.35 | [Chart](https://www.tradingview.com/chart/?symbol=UMH) | UMH Properties, Inc. | UMH |
+| 12 | 91 | $34.42 | [Chart](https://www.tradingview.com/chart/?symbol=AMH) | AMERICAN HOMES 4 RENT | AMH |
+| 15 | 91 | $12.72 | [Chart](https://www.tradingview.com/chart/?symbol=CCRN) | Cross Country Healthcare Inc | CCRN |
+| 16 | 91 | $25.69 | [Chart](https://www.tradingview.com/chart/?symbol=FCPT) | Four Corners Property Trust, Inc. | FCPT |
+| 11 | 89 | $22.42 | [Chart](https://www.tradingview.com/chart/?symbol=CLW) | Clearwater Paper Corporation | CLW |
+| 12 | 89 | $28.51 | [Chart](https://www.tradingview.com/chart/?symbol=BBWI) | Bath & Body Works, Inc. | BBWI |
+| 19 | 89 | $13.08 | [Chart](https://www.tradingview.com/chart/?symbol=GOOD) | Gladstone Commercial Corporation - REIT | GOOD |
+| 20 | 88 | $36.91 | [Chart](https://www.tradingview.com/chart/?symbol=VNO) | Vornado Realty Trust | VNO |
+| 19 | 87 | $55.35 | [Chart](https://www.tradingview.com/chart/?symbol=HRB) | H&R Block, Inc. | HRB |
+| 15 | 85 | $48.20 | [Chart](https://www.tradingview.com/chart/?symbol=BIRK) | Birkenstock Holding plc | BIRK |
+| 19 | 84 | $40.95 | [Chart](https://www.tradingview.com/chart/?symbol=NBTB) | NBT Bancorp Inc | NBTB |
 | 22 | 84 | $12.10 | [Chart](https://www.tradingview.com/chart/?symbol=WSR) | Whitestone REIT | WSR |
-| 25 | 84 | $11.79 | [Chart](https://www.tradingview.com/chart/?symbol=NVG) | Nuveen AMT-Free Municipal Credit Income Fund | NVG |
-| 18 | 83 | $10.68 | [Chart](https://www.tradingview.com/chart/?symbol=NFBK) | Northfield Bancorp, Inc. | NFBK |
-| 26 | 83 | $10.85 | [Chart](https://www.tradingview.com/chart/?symbol=PUBM) | PubMatic, Inc. Class A Common Stock | PUBM |
-| 18 | 82 | $29.14 | [Chart](https://www.tradingview.com/chart/?symbol=CNX) | CNX Resources Corporation | CNX |
-| 23 | 82 | $12.38 | [Chart](https://www.tradingview.com/chart/?symbol=NU) | Nu Holdings Ltd. | NU |
-| 23 | 81 | $13.42 | [Chart](https://www.tradingview.com/chart/?symbol=BAND) | Bandwidth Inc. Class A Common Stock | BAND |
-| 27 | 81 | $68.79 | [Chart](https://www.tradingview.com/chart/?symbol=BBY) | Best Buy Company, Inc. | BBY |
-| 28 | 79 | $10.19 | [Chart](https://www.tradingview.com/chart/?symbol=NMCO) | Nuveen Municipal Credit Opportunities Fund | NMCO |
-| 24 | 77 | $61.05 | [Chart](https://www.tradingview.com/chart/?symbol=UL) | Unilever plc | UL |
-| 27 | 77 | $23.55 | [Chart](https://www.tradingview.com/chart/?symbol=FFBC) | First Financial Bancorp | FFBC |
+| 24 | 84 | $48.05 | [Chart](https://www.tradingview.com/chart/?symbol=FR) | First Industrial Realty Trust, Inc. | FR |
+| 25 | 84 | $11.78 | [Chart](https://www.tradingview.com/chart/?symbol=NVG) | Nuveen AMT-Free Municipal Credit Income Fund | NVG |
+| 24 | 83 | $23.69 | [Chart](https://www.tradingview.com/chart/?symbol=FFBC) | First Financial Bancorp | FFBC |
+| 22 | 82 | $12.30 | [Chart](https://www.tradingview.com/chart/?symbol=NU) | Nu Holdings Ltd. | NU |
+| 26 | 81 | $30.74 | [Chart](https://www.tradingview.com/chart/?symbol=MBIN) | Merchants Bancorp Common Stock | MBIN |
+| 28 | 80 | $10.93 | [Chart](https://www.tradingview.com/chart/?symbol=PUBM) | PubMatic, Inc. Class A Common Stock | PUBM |
+| 32 | 80 | $10.19 | [Chart](https://www.tradingview.com/chart/?symbol=LOCO) | El Pollo Loco Holdings, Inc. | LOCO |
+| 26 | 79 | $39.18 | [Chart](https://www.tradingview.com/chart/?symbol=CTS) | CTS Corporation | CTS |
+| 28 | 79 | $68.97 | [Chart](https://www.tradingview.com/chart/?symbol=BBY) | Best Buy Company, Inc. | BBY |
+| 29 | 78 | $10.21 | [Chart](https://www.tradingview.com/chart/?symbol=NMCO) | Nuveen Municipal Credit Opportunities Fund | NMCO |
 | 31 | 77 | $12.31 | [Chart](https://www.tradingview.com/chart/?symbol=RQI) | COHEN & STEERS QUALITY INCOME REALTY FUND, INC. COMMON SHARES | RQI |
-| 35 | 77 | $45.47 | [Chart](https://www.tradingview.com/chart/?symbol=SON) | Sonoco Products Company | SON |
-| 30 | 76 | $51.45 | [Chart](https://www.tradingview.com/chart/?symbol=LW) | Lamb Weston Holdings, Inc. | LW |
-| 34 | 76 | $96.01 | [Chart](https://www.tradingview.com/chart/?symbol=RWR) | SPDR Dow Jones REIT ETF | RWR |
-| 38 | 75 | $22.45 | [Chart](https://www.tradingview.com/chart/?symbol=BUSE) | First Busey Corporation Class A Common Stock | BUSE |
-| 27 | 73 | $54.78 | [Chart](https://www.tradingview.com/chart/?symbol=ALRM) | Alarm.com Holdings, Inc. | ALRM |
-| 34 | 73 | $24.15 | [Chart](https://www.tradingview.com/chart/?symbol=FLBL) | Franklin Senior Loan ETF | FLBL |
-| 34 | 72 | $89.25 | [Chart](https://www.tradingview.com/chart/?symbol=VNQ) | Vanguard Real Estate ETF | VNQ |
-| 29 | 71 | $37.07 | [Chart](https://www.tradingview.com/chart/?symbol=FRME) | First Merchants Corp | FRME |
-| 32 | 71 | $30.77 | [Chart](https://www.tradingview.com/chart/?symbol=FLRN) | SPDR Bloomberg Investment Grade Floating Rate ETF | FLRN |
-| 38 | 70 | $44.26 | [Chart](https://www.tradingview.com/chart/?symbol=EPI) | WisdomTree India Earnings Fund ETF | EPI |
+| 35 | 77 | $22.30 | [Chart](https://www.tradingview.com/chart/?symbol=BUSE) | First Busey Corporation Class A Common Stock | BUSE |
+| 24 | 76 | $61.06 | [Chart](https://www.tradingview.com/chart/?symbol=UL) | Unilever plc | UL |
+| 35 | 76 | $45.43 | [Chart](https://www.tradingview.com/chart/?symbol=SON) | Sonoco Products Company | SON |
+| 33 | 75 | $95.74 | [Chart](https://www.tradingview.com/chart/?symbol=RWR) | SPDR Dow Jones REIT ETF | RWR |
+| 27 | 74 | $37.56 | [Chart](https://www.tradingview.com/chart/?symbol=FRME) | First Merchants Corp | FRME |
+| 31 | 74 | $51.55 | [Chart](https://www.tradingview.com/chart/?symbol=LW) | Lamb Weston Holdings, Inc. | LW |
+| 33 | 72 | $89.06 | [Chart](https://www.tradingview.com/chart/?symbol=VNQ) | Vanguard Real Estate ETF | VNQ |
+| 35 | 70 | $24.16 | [Chart](https://www.tradingview.com/chart/?symbol=FLBL) | Franklin Senior Loan ETF | FLBL |
+| 38 | 69 | $44.26 | [Chart](https://www.tradingview.com/chart/?symbol=EPI) | WisdomTree India Earnings Fund ETF | EPI |
+| 39 | 66 | $25.56 | [Chart](https://www.tradingview.com/chart/?symbol=BRX) | BRIXMOR PROPERTY GROUP INC. | BRX |
 
 ## **Methodology**
 
